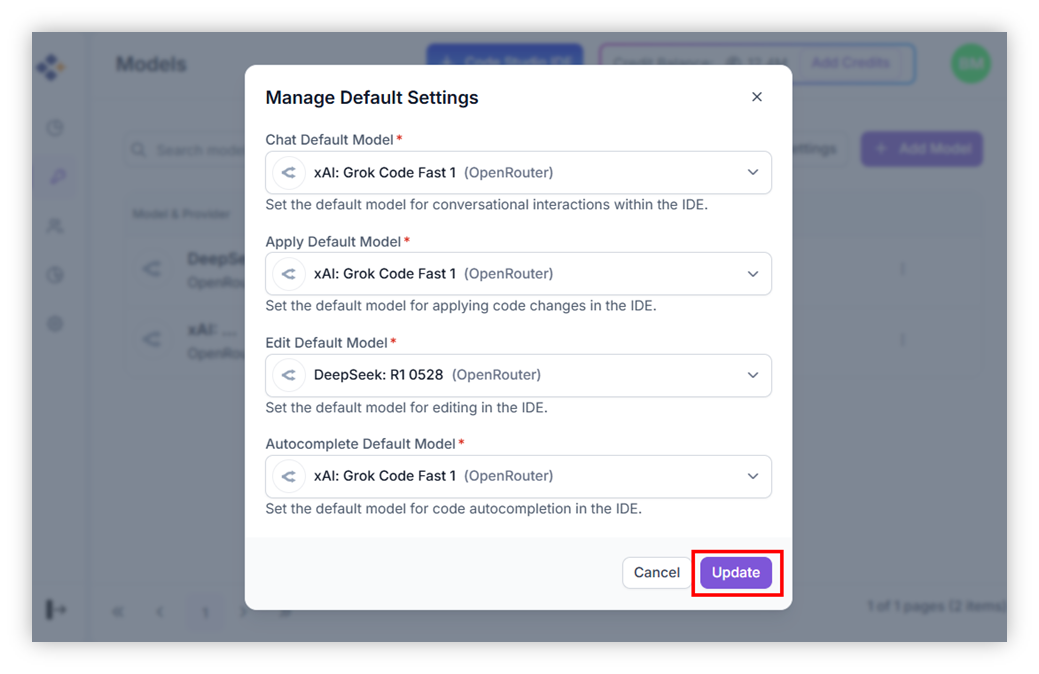
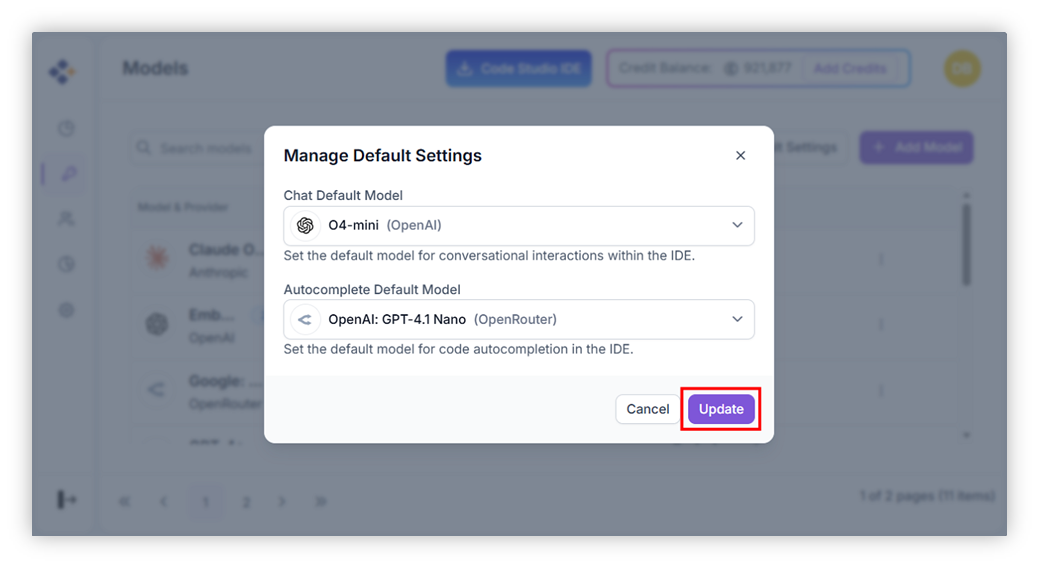
Updated Resend invitation feature

diff --git a/code-studio/getting-started/feature-summary.md b/code-studio/getting-started/feature-summary.md
@@ -13,48 +13,48 @@ Deeply integrated with Syncfusion’s rich component library, Syncfusion Code St
 
 ## Key Features
 
-•   Autocomplete Mode: AI‑powered code suggestions as you type, based on your current project.  
+•   **Autocomplete Mode**: AI‑powered code suggestions as you type, based on your current project.  
 Learn more on the [Autocomplete](https://helpstaging.syncfusion.com:14038/code-studio/features/autocomplete) page.
 
-•   Ask Mode: Get quick answers, explanations, and readytouse code snippets through simple questions in the IDE—no project files required.  
+•   **Ask Mode**: Get quick answers, explanations, and readytouse code snippets through simple questions in the IDE—no project files required.  
 Learn more on the [Ask](https://helpstaging.syncfusion.com:14038/code-studio/features/ask) page.
 
-•   Edit Mode: Use AI prompts to modify source code with previewed changes, letting you keep or undo each edit for precise control and high accuracy.  
+•   **Edit Mode**: Use AI prompts to modify source code with previewed changes, letting you keep or undo each edit for precise control and high accuracy.  
 Learn more on the [Edit](https://helpstaging.syncfusion.com:14038/code-studio/features/edit) page.
 
-•   Agent Mode: The AI agent understands your codebase and autonomously performs multi‑step tasks. It can read files, reason about logic, and use built‑in tools (like file search, code edit, or UI generation) to complete complex workflows end‑to‑end.  
+•   **Agent Mode**: The AI agent understands your codebase and autonomously performs multi‑step tasks. It can read files, reason about logic, and use built‑in tools (like file search, code edit, or UI generation) to complete complex workflows end‑to‑end.  
 Learn more on the [Agent](https://helpstaging.syncfusion.com:14038/code-studio/features/agent) page.
 
-•   Plan Mode: Research tasks, identify requirements, and break work into clear, reviewable steps before writing any code—ensuring safer and more reliable implementation.  
+•   **Plan Mode**: Research tasks, identify requirements, and break work into clear, reviewable steps before writing any code—ensuring safer and more reliable implementation.  
 Learn more on the [Plan](https://helpstaging.syncfusion.com:14038/code-studio/features/plan) page.
 
-•   Provide Context to Chat: Attach files, folders, code symbols, errors, screenshots, or tool outputs so the AI understands what you’re working on and gives accurate, relevant guidance.  
+•   **Provide Context to Chat**: Attach files, folders, code symbols, errors, screenshots, or tool outputs so the AI understands what you’re working on and gives accurate, relevant guidance.  
 Learn more on the [Context](https://helpstaging.syncfusion.com:14038/code-studio/features/add-context) page.
 
-•   UI Builder: An AI‑powered tool that analyzes your development needs and automatically delivers targeted UI guidance with code examples, component documentation, and layouts specifically for Syncfusion components. By understanding your project context, it provides precise, platform‑specific assistance instead of generic advice.  
+•   **UI Builder**: An AI‑powered tool that analyzes your development needs and automatically delivers targeted UI guidance with code examples, component documentation, and layouts specifically for Syncfusion components. By understanding your project context, it provides precise, platform‑specific assistance instead of generic advice.  
 Learn more on the [UI Builder](https://helpstaging.syncfusion.com:14038/code-studio/features/ui-builder) page.
 
-•   Enterprise Server: Centralized administration for organizations, including users and teams, providers and models, budgets, alerts, and dashboards.  
+•   **Enterprise Server**: Centralized administration for organizations, including users and teams, providers and models, budgets, alerts, and dashboards.  
 Learn more on the [Enterprise Server](https://helpstaging.syncfusion.com:14038/code-studio/enterprise-server/getting-started) page.
 
-•   Built‑in Tools: Perform file edits, searches, terminal commands, and more directly from the agent.  
+•   **Built‑in Tools**: Perform file edits, searches, terminal commands, and more directly from the agent.  
 See [Tools](https://helpstaging.syncfusion.com:14038/code-studio/reference/configure-properties/toolssupport).
 
-•   Checkpoints: Automatically capture, compare, and restore your workspace state to track changes and recover easily.  
+•   **Checkpoints**: Automatically capture, compare, and restore your workspace state to track changes and recover easily.  
 Learn more in [Checkpoints](https://helpstaging.syncfusion.com:14038/code-studio/features/checkpoints).
 
-•   Inline Edit: Apply AI‑powered fixes, optimizations, and docs right from the editor’s context menu.  
+•   **Inline Edit**: Apply AI‑powered fixes, optimizations, and docs right from the editor’s context menu.  
 See [Inline Edit](https://helpstaging.syncfusion.com:14038/code-studio/features/inline).
 
-•   Telemetry: Anonymous usage analytics to improve product quality; can be disabled anytime.  
+•   **Telemetry**: Anonymous usage analytics to improve product quality; can be disabled anytime.  
 See [Telemetry](https://helpstaging.syncfusion.com:14038/code-studio/features/telemetry).
 
-•   Generate Code: Automate common coding tasks like fixing issues, reviewing code, generating documentation, and creating tests—directly inside your editor for faster, higher‑quality development.
+•   **Generate Code**: Automate common coding tasks like fixing issues, reviewing code, generating documentation, and creating tests—directly inside your editor for faster, higher‑quality development.
 Learn more on the [Generate Code](https://helpstaging.syncfusion.com:14038/code-studio/features/generatecode) Generate Code page.
 
-•   Quick Fix: Instantly detect and resolve errors with context‑aware AI suggestions, inline previews, and explanations—so you can fix issues without leaving your editor.  
+•   **Quick Fix**: Instantly detect and resolve errors with context‑aware AI suggestions, inline previews, and explanations—so you can fix issues without leaving your editor.  
 Learn more on the [Quick Fix](https://helpstaging.syncfusion.com:14038/code-studio/features/quickfix) page.
 
-•   MCP Integration: Discover and manage servers via the [MCP Marketplace](https://helpstaging.syncfusion.com:14038/code-studio/reference/configure-properties/mcp/marketplace) or connect [Custom Servers](https://helpstaging.syncfusion.com:14038/code-studio/reference/configure-properties/mcp/customservers) including Remote, NPM, and Local.
+•   **MCP Integration**: Discover and manage servers via the [MCP Marketplace](https://helpstaging.syncfusion.com:14038/code-studio/reference/configure-properties/mcp/marketplace) or connect [Custom Servers](https://helpstaging.syncfusion.com:14038/code-studio/reference/configure-properties/mcp/customservers) including Remote, NPM, and Local.
 
-•   Custom Agent: Pre‑configured AI agents for specific tasks that follow fixed rules, tools, and behaviors—ensuring consistent, repeatable workflows across teams. Learn more on the [Custom Agent](https://helpstaging.syncfusion.com:14038/code-studio/reference/configure-properties/custom-agents) page.
+•   **Custom Agent**: Pre‑configured AI agents for specific tasks that follow fixed rules, tools, and behaviors—ensuring consistent, repeatable workflows across teams. Learn more on the [Custom Agent](https://helpstaging.syncfusion.com:14038/code-studio/reference/configure-properties/custom-agents) page.

diff --git a/code-studio/enterprise-server/userandteams.md b/code-studio/enterprise-server/userandteams.md
@@ -49,10 +49,20 @@ Code Studio empowers administrators and team leads to manage organization member
 
 ### Editing or Removing Members
 Use the context menu to:
+
+ <img src="./enterprise-images/editUser.png" alt="Edit and Remove User" />
+
 - **Edit:** Update a user's name or role.
 - **Delete:** Remove a user from the organization.
 
-   <img src="./enterprise-images/editUser.png" alt="Edit and Remove User" />
+ <img src="./enterprise-images/resendInvitation.png" alt="Resend Invitation" />
+
+   
+- **Resend Invitation:** We can Resend Invitation for users who have not yet accepted their initial invitation. This is helpful when the original email was lost or has expired.
+
+- **Cancel Invitation:** Cancel Invitation for users who are still in the “Invitation Sent” state and have not yet joined the organization. Use this option when you no longer want the invited user to join the organization. Once the invitation is canceled, the user will be removed from the invited users list.
+
+   
 ## 3. Teams Management
 
 ### Team List Panel

diff --git a/code-studio/enterprise-server/providersandmodels.md b/code-studio/enterprise-server/providersandmodels.md
@@ -54,9 +54,9 @@ To add a model under a configured provider:
 4. In the form:
    - **Provider:** Select from the list of configured providers.
    - **Model:** Choose from the dropdown list of models available under the selected provider. Each model lists its input and output cost.
-   - **Modes:** Select one or more modes in which the model should be used. This is a multi-select field.
+   - **Modes:** Select Chat,Autoccomplete or both modes in which the model should be used. This is a multi-select field.
 5. Click **Add** to include the model in your BYOK model list.
-6. Click **Manage Default Settings** to customize which AI models are used for IDE functionalities like chat, edit, apply, and autocomplete.
+6. Click **Manage Default Settings** to customize which AI models are used for IDE functionalities like chat and autocomplete.
 
    <img src="./enterprise-images/manageDefaultModel.png" alt="Manage Default Model" />
 

diff --git a/code-studio/reference/configure-properties/toolssupport.md b/code-studio/reference/configure-properties/toolssupport.md
@@ -112,7 +112,7 @@ Before you can use tools in chat, you need to enable them in the **Chat view**. 
 
 <img src="../reference-images/tools2.png" alt="Tools" >
 
-#### Step 2: Select the Agent in the chat window.
+**Step 2**: Select the Agent in the chat window.
 
 **Step 3** : Click the Configure Tools button in the chat input field. The tools are displayed.
 
